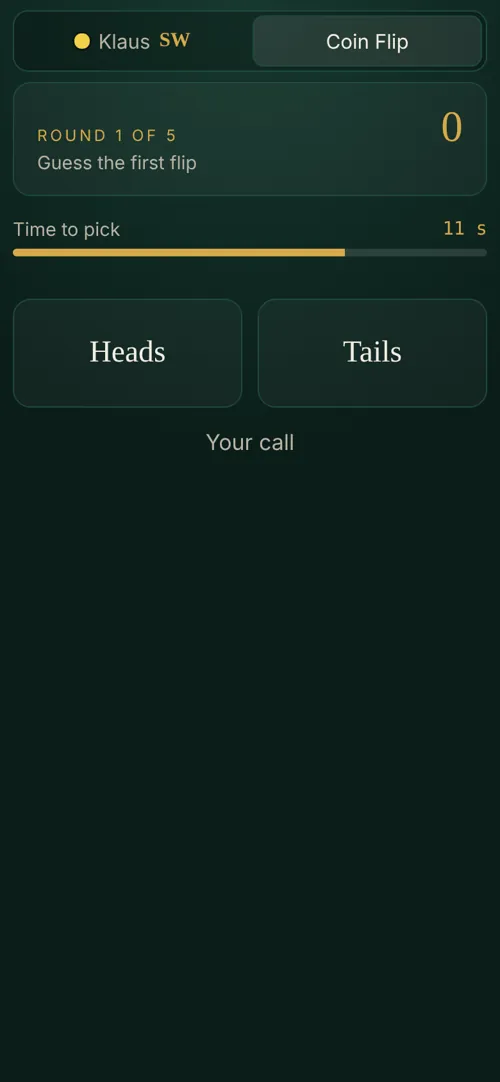
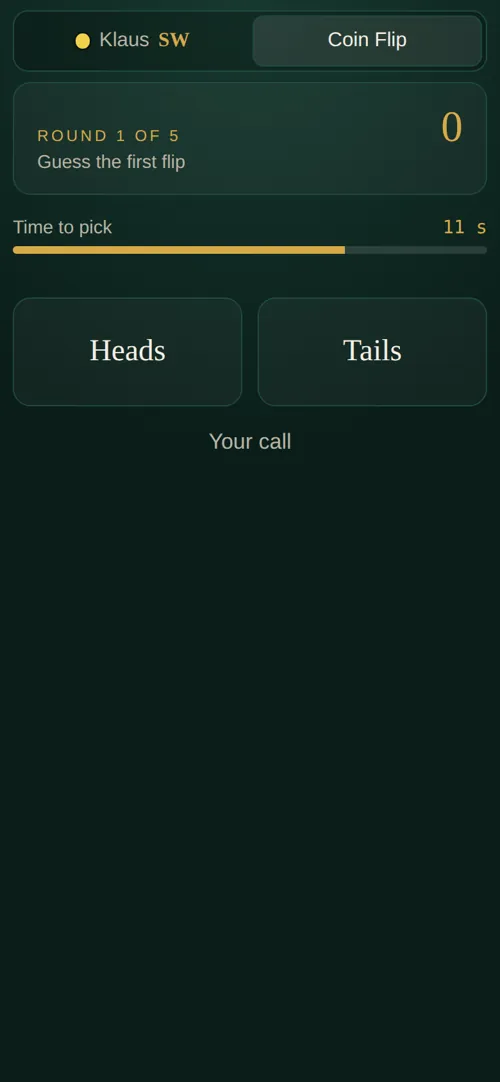
Website: fix the stale phone in game close-ups, and take every screenshot again (#307)
* Website: fix the stale phone in a game's close-up and take every screenshot again

The close-up hid its phone image with [hidden], but a global img { display: block }
overrode it, so Chess, Backgammon and Pachisi (no phone image) showed the phone of
the game opened before. img[hidden] now stays hidden (with a test).

Chess, Backgammon and Pachisi get a phone screenshot, and their board and phone now come
from one game with Klaus at the table (same names, moves, dice), not from an AI-only
game. Every other screenshot is taken again from the current release.

Claude-Session: https://claude.ai/code/session_011rmobcriCzmS776THHNwKk

* Website: show the new Chess, Backgammon and Pachisi phones in the close-up

Claude-Session: https://claude.ai/code/session_011rmobcriCzmS776THHNwKk

* Decisions D-259 and D-260: the website's close-up phone and the paired screenshots

Claude-Session: https://claude.ai/code/session_011rmobcriCzmS776THHNwKk

---------

diff --git a/apps/cloud/public/home.html b/apps/cloud/public/home.html
@@ -27,6 +27,7 @@ main { overflow-x: clip; }
 a { color: var(--brass-hi); text-decoration: none; }
 a:hover { text-decoration: underline; }
 img { display: block; max-width: 100%; height: auto; }
+img[hidden] { display: none; } /* the game close-up hides its phone image with [hidden]; display:block above would keep the last game's phone */
 code, pre { font-family: var(--mono); }
 h1, h2, h3 { font-family: var(--display); font-weight: 600; line-height: 1.12; margin: 0; letter-spacing: .005em; }
 h2 { font-size: clamp(34px, 4vw, 52px); }
@@ -1361,15 +1362,15 @@ docker compose -f deploy/local/docker-compose.yml up -d --build">Copy</button></
   const GAMES = [
     { id: "holdem", name: "Hold'em", players: "2–8 players", src: "built-in", wide: true, phone: "holdem-phone",
       text: "Fixed-limit Texas Hold'em. Your two cards stay on your phone; the board shows the shared cards and the pot. AI players in two styles, side pots, awards." },
-    { id: "backgammon", name: "Backgammon", players: "2 players", src: "extra",
+    { id: "backgammon", name: "Backgammon", players: "2 players", src: "extra", phone: "backgammon-phone",
       text: "Roll, then tap or drag your checkers on the board, hit blots and bear off first. Matches to 100 points with the doubling cube; AI at six strengths, the strongest from wildbg, a neural-network engine." },
     { id: "roulette", name: "Roulette", players: "1–6 players", src: "built-in", phone: "roulette-phone",
       text: "European single-zero roulette. Everyone bets at once from their phone, then the wheel spins. Three AI styles." },
     { id: "liars-dice", name: "Liar's Dice", players: "2–6 players", src: "extra", phone: "liars-dice-phone",
       text: "Everyone rolls in secret under their phone. Bid how many dice show a face, or call the last bid a lie." },
-    { id: "chess", name: "Chess", players: "2 players", src: "extra",
+    { id: "chess", name: "Chess", players: "2 players", src: "extra", phone: "chess-phone",
       text: "Tap a piece on the board, then its square, or drag it there. Clocks from bullet to classical, or none. AI players use the game's own engine at an Elo from 400 to 2200, or Stockfish (via stockfish.online) or the Lichess cloud over the internet, with the own engine stepping in when they don't answer in time; the board says which engine made each move." },
-    { id: "pachisi", name: "Pachisi", players: "2–4 players", src: "built-in",
+    { id: "pachisi", name: "Pachisi", players: "2–4 players", src: "built-in", phone: "pachisi-phone",
       text: "Race your tokens around the board and home. Roll a 6 to leave the start, touch a token to move it, land on someone to send them back." },
     { id: "mexican-train", name: "Mexican Train", players: "2–8 players", src: "extra", phone: "mexican-train-phone",
       text: "Dominoes up to double twelve: grow your own train from the hub, or the Mexican train everyone shares. Your tiles stay on your phone. A demo game for developers that customises nearly everything." },

diff --git a/tests/website.test.ts b/tests/website.test.ts
@@ -17,6 +17,12 @@ async function start(extra: { previewBanner?: boolean } = {}) {
 const get = (path: string) => fetch(base + path, { redirect: "manual" });
 
 describe("the public website (D-176)", () => {
+  it("hides the close-up's phone image for a game without one (img[hidden] must stay display: none)", async () => {
+    await start();
+    const html = await (await get("/")).text();
+    expect(html).toMatch(/img\[hidden\]\s*\{\s*display:\s*none;?\s*\}/); // a global img { display: block } would keep the last game's phone
+  });
+
   it("serves the page with its sections, the admin link, the version and no unfilled placeholders", async () => {
     await start();
     const r = await get("/");

diff --git a/scripts/site-screenshots.py b/scripts/site-screenshots.py
@@ -62,6 +62,9 @@ PLAN = [
     ("last-card", {"turnSeconds": 0, "tapToPlay": True}, 6, ["Klaus"], 5, 60),
 ]
 
+# game, seats, AI players, seconds to wait after start: board and phone from one game with Klaus (AI-only above)
+PHONE_ONLY = [("chess", 2, 1, 4), ("backgammon", 2, 1, 4), ("pachisi", 4, 3, 4)]
+
 # Last Card (extra-games): a point of a card on the phone that no other card covers (the hand overlaps).
 SPOT = """e => { const r = e.getBoundingClientRect();
   for (const fy of [0.3, 0.5, 0.15]) for (const fx of [0.3, 0.15, 0.5]) {
@@ -211,6 +214,40 @@ try:
             for ph in phones:
                 ph.close()
             print("shot", game, a("GET", "/state")["phase"])
+        # Board and phone of the games that are played with AI players only above: they come from ONE game with Klaus
+        # at the table, so the two pictures show the same moment (the names, the seats, the position). The game waits
+        # at Klaus's turn; Chess plays a few opening moves first by tapping on the board.
+        for game, seats, ais, secs in PHONE_ONLY:
+            if ONLY and game not in ONLY:
+                continue
+            reset()
+            a("POST", "/layout", {"seats": seats})
+            ph = b.new_page(viewport={"width": 390, "height": 844}, device_scale_factor=2)
+            ph.goto(a("GET", "/join")["url"].replace("192.168.1.20:8080", f"127.0.0.1:{PORT}"))
+            ph.fill("input[name=name]", "Klaus")
+            ph.click("button[type=submit]")
+            ph.wait_for_selector(".who h1")
+            for _ in range(ais):
+                a("POST", "/ai", {})
+            a("POST", "/game/select", {"gameId": game, "settings": {}})
+            ph.click("#ready")
+            time.sleep(1.5)
+            a("POST", "/game/start", {})
+            time.sleep(secs)
+            if game == "chess":
+                for src, dst in [("e2", "e4"), ("g1", "f3"), ("f1", "c4"), ("d2", "d3")]:
+                    try:
+                        wait(lambda: "your move" in ph.inner_text("body").lower(), 30, "Klaus's turn")
+                        board.click(f'.ch-pc[data-sq="{src}"]')
+                        board.click(f'.ch-sq[data-sq="{dst}"]')
+                    except Exception as e:
+                        print("chess move", src, dst, e)
+                wait(lambda: "your move" in ph.inner_text("body").lower(), 30, "Klaus's turn")
+                time.sleep(1.5)
+            board.screenshot(path=os.path.join(OUT, f"{game}-board.png"))
+            ph.screenshot(path=os.path.join(OUT, f"{game}-phone.png"))
+            ph.close()
+            print("shot board and phone", game, a("GET", "/state")["phase"])
         # The statistics window (D-140, D-178): eight hands of Hold'em with six AI players, played to the end.
         if not ONLY or "statistics" in ONLY:
             reset()

diff --git a/docs/decisions.md b/docs/decisions.md
@@ -2005,3 +2005,29 @@ Klaus asked for the repo to follow kube-setup's conventions (its Obsidian vault 
     it, and moves a copy from the old `repos/<name>` once, so `--no-update` keeps working after an update. The Windows
     script keeps `repos\<name>` for klaushofrichter's repositories (games-service must stay at
     `repos\games-service`) and uses `repos\<owner>\<name>` for anyone else's.
+
+## The website's game close-ups and screenshots, checked pair by pair (2 Nov 2026)
+
+- **D-261 · 2026-11-02 · Klaus** — A game's close-up on the website shows a phone only for a game that has a phone
+  screenshot, and never the phone of another game. *Why:* Klaus, with a screenshot of Chess on the website: "the
+  Deck/Phone screenshot does not match Chess". *Implementation (Claude):* the close-up hides its phone image with
+  `[hidden]`, but the page's `img { display: block }` outranks the browser's `[hidden]` rule, so for a game with no
+  `phone` entry (Chess, Backgammon, Pachisi) the image kept the last phone shown, here Roulette's. `img[hidden] {
+  display: none }` now comes right after it. `tests/website.test.ts` checks that the rule is there; a global rule
+  that sets `display` on an element must not be allowed to undo `[hidden]` for it.
+- **D-262 · 2026-11-02 · Klaus** — The website's board and phone screenshots of a game come from one game at one
+  moment, and every game with a phone screen shows it. *Why:* Klaus: "Review all screenshots of the board and the
+  associated Deck/Phone for accuracy. Perhaps renew screenshots the ensure that it follows the current release", then
+  "regenerate everything". *Implementation (Claude):*
+  - Every game has a phone screen (`deck.js`), but `scripts/site-screenshots.py` played Chess, Backgammon and Pachisi
+    with AI players only, so they had no phone picture. A new `PHONE_ONLY` pass plays each of them once with Klaus at
+    the table and takes the board and the phone from that game (the game waits at Klaus's first turn), so the names,
+    seats, position, dice and timer in the two pictures agree. Chess plays four opening moves first by tapping on the
+    board (e4, Nf3, Bc4, d3), so the position and the move list show something. The three phone screenshots are new
+    (`chess-phone.webp`, `backgammon-phone.webp`, `pachisi-phone.webp`) and are in the close-up.
+  - The first try took the phone of a fresh game next to the board of a finished AI game (different players, "No
+    moves yet" beside a checkmate); that is what this decision rules out.
+  - Every other screenshot was taken again from the current release and checked pair by pair: Hold'em, Roulette,
+    Liar's Dice, Coin Flip, Mexican Train, Last Card, the lobby and the Last Card sling agree.
+  - Open: in Mexican Train the board's seat plate for Klaus reads "Their turn" while his phone says "Now tap a train",
+    probably the board's wording for the seat that is up; not changed.

diff --git a/CHANGELOG.md b/CHANGELOG.md
@@ -8,6 +8,7 @@ history.
 
 ## [Unreleased]
 
+- The website: a game's close-up no longer shows another game's phone (Chess, Backgammon, Pachisi), those three have phone screenshots taken from the same game as their board, and every screenshot is taken again from the current release (D-261, D-262).
 - Packages and the Windows script: game repositories of other organizations (owner/name) are explained in the install guides and kept apart from same-named ones (D-260).
 - The website: About comes first, Start here on the Gamers card, the packages' missing remote players and the public host on request explained, current counts, and one agent prompt fewer (D-259).
 - The website: the Docker section's agent prompt is about creating new games.
